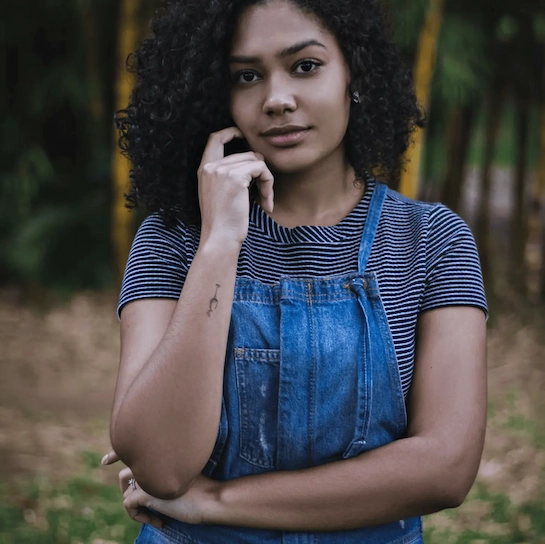
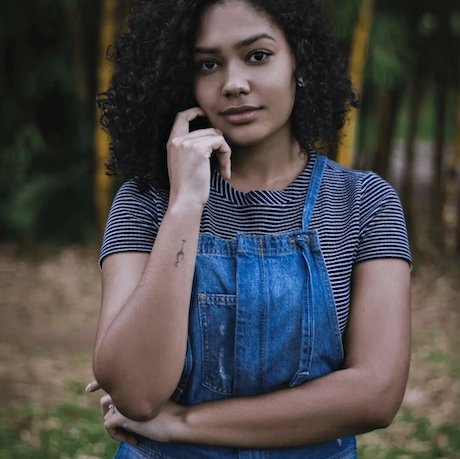
fix: Fixed the modal switch and filter background bug and minified js file

diff --git a/assets/gallery.min.js b/assets/gallery.min.js
@@ -1,0 +1,34 @@
+$(document).ready(function(){$(".gallery").mauGallery({columns:{xs:1,sm:2,md:3,lg:3,xl:3,},lightBox:!0,lightboxId:"myAwesomeLightbox",showTags:!0,tagsPosition:"top",})});(function($){$.fn.mauGallery=function(options){var options=$.extend($.fn.mauGallery.defaults,options);var tagsCollection=[];return this.each(function(){$.fn.mauGallery.methods.createRowWrapper($(this));if(options.lightBox){$.fn.mauGallery.methods.createLightBox($(this),options.lightboxId,options.navigation)}
+$.fn.mauGallery.listeners(options);$(this).children(".gallery-item").each(function(index){$.fn.mauGallery.methods.responsiveImageItem($(this));$.fn.mauGallery.methods.moveItemInRowWrapper($(this));$.fn.mauGallery.methods.wrapItemInColumn($(this),options.columns);var theTag=$(this).data("gallery-tag");if(options.showTags&&theTag!==undefined&&tagsCollection.indexOf(theTag)===-1){tagsCollection.push(theTag)}});if(options.showTags){$.fn.mauGallery.methods.showItemTags($(this),options.tagsPosition,tagsCollection)}
+$(this).fadeIn(500)})};$.fn.mauGallery.defaults={columns:3,lightBox:!0,lightboxId:null,showTags:!0,tagsPosition:"bottom",navigation:!0,};$.fn.mauGallery.listeners=function(options){$(".gallery-item").on("click",function(){if(options.lightBox&&$(this).prop("tagName")==="IMG"){$.fn.mauGallery.methods.openLightBox($(this),options.lightboxId)}else{return}});$(".gallery").on("click",".nav-link",$.fn.mauGallery.methods.filterByTag);$(".gallery").on("click",".mg-prev",()=>$.fn.mauGallery.methods.prevImage(options.lightboxId));$(".gallery").on("click",".mg-next",()=>$.fn.mauGallery.methods.nextImage(options.lightboxId))};$.fn.mauGallery.methods={createRowWrapper(element){if(!element.children().first().hasClass("row")){element.append('<div class="gallery-items-row row"></div>')}},wrapItemInColumn(element,columns){if(columns.constructor===Number){element.wrap(`<div class='item-column mb-4 col-${Math.ceil(
+                        12 / columns
+                    )}'></div>`)}else if(columns.constructor===Object){var columnClasses="";if(columns.xs){columnClasses+=` col-${Math.ceil(12 / columns.xs)}`}
+if(columns.sm){columnClasses+=` col-sm-${Math.ceil(12 / columns.sm)}`}
+if(columns.md){columnClasses+=` col-md-${Math.ceil(12 / columns.md)}`}
+if(columns.lg){columnClasses+=` col-lg-${Math.ceil(12 / columns.lg)}`}
+if(columns.xl){columnClasses+=` col-xl-${Math.ceil(12 / columns.xl)}`}
+element.wrap(`<div class='item-column mb-4${columnClasses}'></div>`)}else{console.error(`Columns should be defined as numbers or objects. ${typeof columns} is not supported.`)}},moveItemInRowWrapper(element){element.appendTo(".gallery-items-row")},responsiveImageItem(element){if(element.prop("tagName")==="IMG"){element.addClass("img-fluid")}},openLightBox(element,lightboxId){$(`#${lightboxId}`).find(".lightboxImage").attr("src",element.attr("src"));$(`#${lightboxId}`).modal("toggle")},prevImage(){let activeImage=null;$("img.gallery-item").each(function(){if($(this).attr("src")===$(".lightboxImage").attr("src")){activeImage=$(this)}});let activeTag=$(".tags-bar span.active-tag").data("images-toggle");let imagesCollection=[];if(activeTag==="all"){$(".item-column").each(function(){if($(this).children("img").length){imagesCollection.push($(this).children("img"))}})}else{$(".item-column").each(function(){if($(this).children("img").data("gallery-tag")===activeTag){imagesCollection.push($(this).children("img"))}})}
+let index=0,next=null;$(imagesCollection).each(function(i){if($(activeImage).attr("src")===$(this).attr("src")){index=i}});next=imagesCollection[index-1]||imagesCollection[imagesCollection.length-1];$(".lightboxImage").attr("src",$(next).attr("src"))},nextImage(){let activeImage=null;$("img.gallery-item").each(function(){if($(this).attr("src")===$(".lightboxImage").attr("src")){activeImage=$(this)}});let activeTag=$(".tags-bar span.active-tag").data("images-toggle");let imagesCollection=[];if(activeTag==="all"){$(".item-column").each(function(){if($(this).children("img").length){imagesCollection.push($(this).children("img"))}})}else{$(".item-column").each(function(){if($(this).children("img").data("gallery-tag")===activeTag){imagesCollection.push($(this).children("img"))}})}
+let index=0,next=null;$(imagesCollection).each(function(i){if($(activeImage).attr("src")===$(this).attr("src")){index=i}});next=imagesCollection[index+1]||imagesCollection[0];$(".lightboxImage").attr("src",$(next).attr("src"))},createLightBox(gallery,lightboxId,navigation){gallery.append(`<div class="modal fade" id="${
+                lightboxId ? lightboxId : "galleryLightbox"
+            }" tabindex="-1" role="dialog" aria-hidden="true">
+                <div class="modal-dialog" role="document">
+                    <div class="modal-content">
+                        <div class="modal-body">
+                            ${
+                                navigation
+                                    ? '<div class="mg-prev" style="cursor:pointer;position:absolute;top:50%;left:-15px;background:white;"><</div>'
+                                    : '<span style="display:none;" />'
+                            }
+                            <img class="lightboxImage img-fluid" alt="Contenu de l'image affichée dans la modale au clique"/>
+                            ${
+                                navigation
+                                    ? '<div class="mg-next" style="cursor:pointer;position:absolute;top:50%;right:-15px;background:white;}">></div>'
+                                    : '<span style="display:none;" />'
+                            }
+                        </div>
+                    </div>
+                </div>
+            </div>`)},showItemTags(gallery,position,tags){var tagItems='<li class="nav-item"><span class="nav-link active active-tag"  data-images-toggle="all">Tous</span></li>';$.each(tags,function(index,value){tagItems+=`<li class="nav-item active">
+                <span class="nav-link"  data-images-toggle="${value}">${value}</span></li>`});var tagsRow=`<ul class="my-4 tags-bar nav nav-pills">${tagItems}</ul>`;if(position==="bottom"){gallery.append(tagsRow)}else if(position==="top"){gallery.prepend(tagsRow)}else{console.error(`Unknown tags position: ${position}`)}},filterByTag(){if($(this).hasClass("active-tag")){return}
+$(".active-tag").removeClass("active active-tag");$(this).addClass("active active-tag");var tag=$(this).data("images-toggle");$(".gallery-item").each(function(){$(this).parents(".item-column").hide();if(tag==="all"){$(this).parents(".item-column").show(300)}else if($(this).data("gallery-tag")===tag){$(this).parents(".item-column").show(300)}})},}})(jQuery)

diff --git a/assets/gallery.js b/assets/gallery.js
@@ -180,7 +180,7 @@ $(document).ready(function () {
                 }
             });
             next =
-                imagesCollection[index] ||
+                imagesCollection[index - 1] ||
                 imagesCollection[imagesCollection.length - 1];
             $(".lightboxImage").attr("src", $(next).attr("src"));
         },
@@ -219,7 +219,7 @@ $(document).ready(function () {
                     index = i;
                 }
             });
-            next = imagesCollection[index] || imagesCollection[0];
+            next = imagesCollection[index + 1] || imagesCollection[0];
             $(".lightboxImage").attr("src", $(next).attr("src"));
         },
         createLightBox(gallery, lightboxId, navigation) {
@@ -267,7 +267,7 @@ $(document).ready(function () {
                 return;
             }
             $(".active-tag").removeClass("active active-tag");
-            $(this).addClass("active-tag");
+            $(this).addClass("active active-tag");
 
             var tag = $(this).data("images-toggle");
 

diff --git a/index.html b/index.html
@@ -38,7 +38,7 @@
 		defer></script>
 
 	<!-- JS -->
-	<script src="./assets/gallery.js" defer></script>
+	<script src="./assets/gallery.min.js" defer></script>
 
 	<!-- Rich Snippet -->
 	<script type="application/ld+json">
@@ -159,8 +159,7 @@
 
 		<section id="about">
 			<div class="picture left">
-				<img src="./assets/images/nina.webp" alt="Nina Carducci" loading="lazy">
-
+					<img src="./assets/images/nina.webp" class="d-block w-100" alt="Nina Carducci" loading="lazy">
 			</div>
 			<div id="about-me">
 				<h2 class="about-me__title">A propos de moi</h2>
